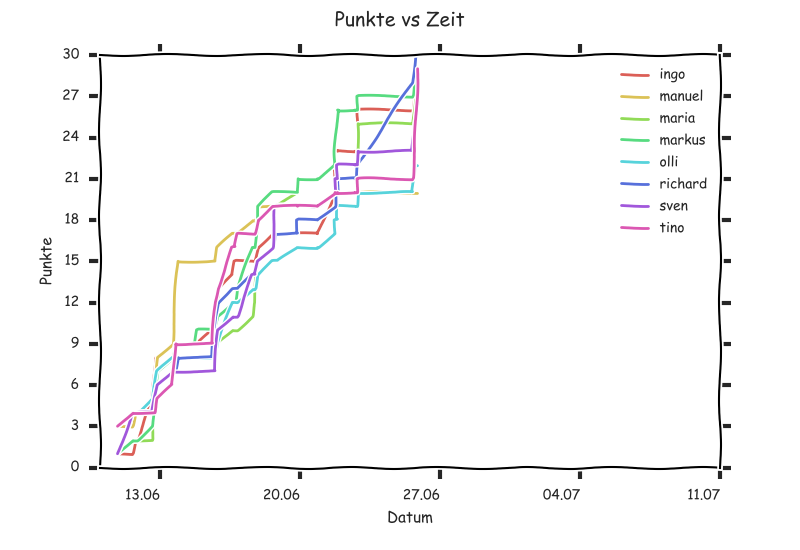
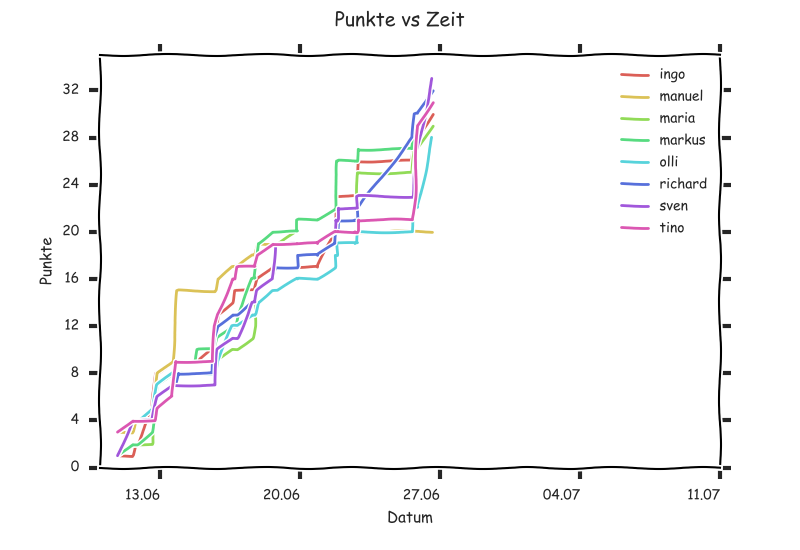
neue standings

diff --git a/index.html b/index.html
@@ -21,18 +21,6 @@
   </thead>
   <tbody>
     <tr>
-      <th style="min-width: 60;">2016-06-26 15:00:00</th>
-      <th style="min-width: 60;">Frankreich - Irland</th>
-      <td>2 - 0</td>
-      <td>0 - 2</td>
-      <td>2 - 0</td>
-      <td>2 - 0</td>
-      <td>2 - 1</td>
-      <td>1 - 0</td>
-      <td>2 - 1</td>
-      <td>None</td>
-    </tr>
-    <tr>
       <th style="min-width: 60;">2016-06-26 18:00:00</th>
       <th style="min-width: 60;">Deutschland - Slowakei</th>
       <td>2 - 0</td>
@@ -42,7 +30,7 @@
       <td>1 - 0</td>
       <td>1 - 0</td>
       <td>2 - 1</td>
-      <td>None</td>
+      <td>2 - 1</td>
     </tr>
     <tr>
       <th style="min-width: 60;">2016-06-26 21:00:00</th>
@@ -54,7 +42,7 @@
       <td>1 - 2</td>
       <td>0 - 1</td>
       <td>1 - 2</td>
-      <td>None</td>
+      <td>0 - 1</td>
     </tr>
     <tr>
       <th style="min-width: 60;">2016-06-27 18:00:00</th>
@@ -66,7 +54,7 @@
       <td>1 - 0</td>
       <td>1 - 1</td>
       <td>1 - 2</td>
-      <td>None</td>
+      <td>1 - 1</td>
     </tr>
     <tr>
       <th style="min-width: 60;">2016-06-27 21:00:00</th>
@@ -78,7 +66,7 @@
       <td>1 - 0</td>
       <td>2 - 0</td>
       <td>1 - 0</td>
-      <td>None</td>
+      <td>3 - 1</td>
     </tr>
   </tbody>
 </table>
